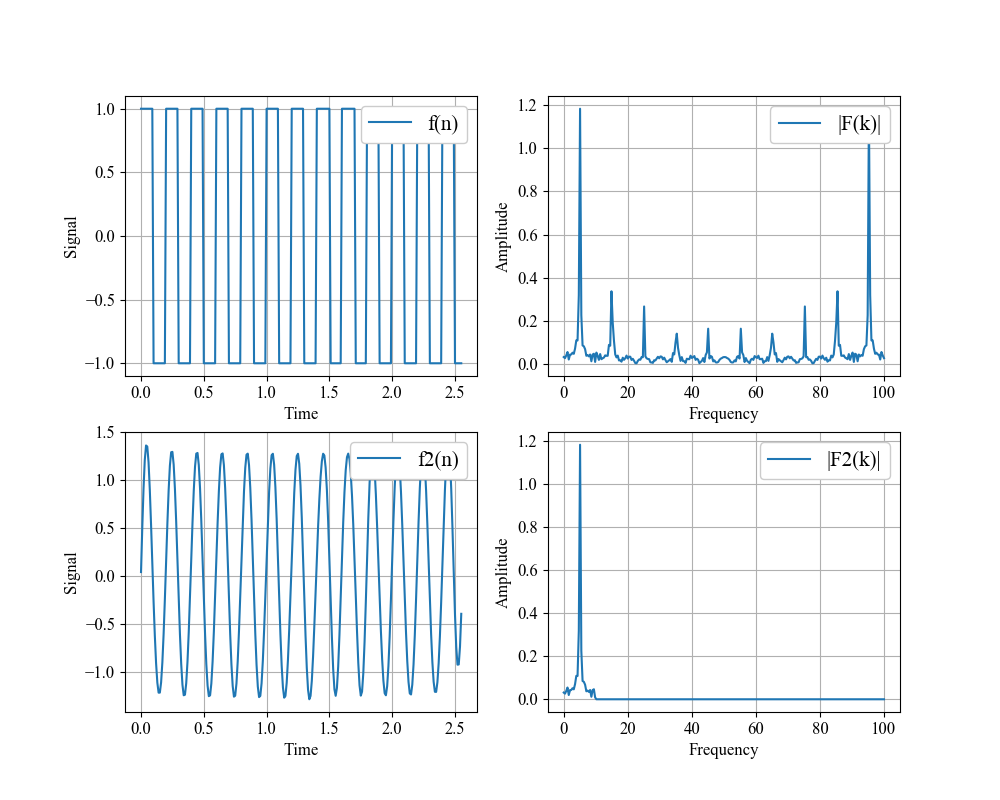
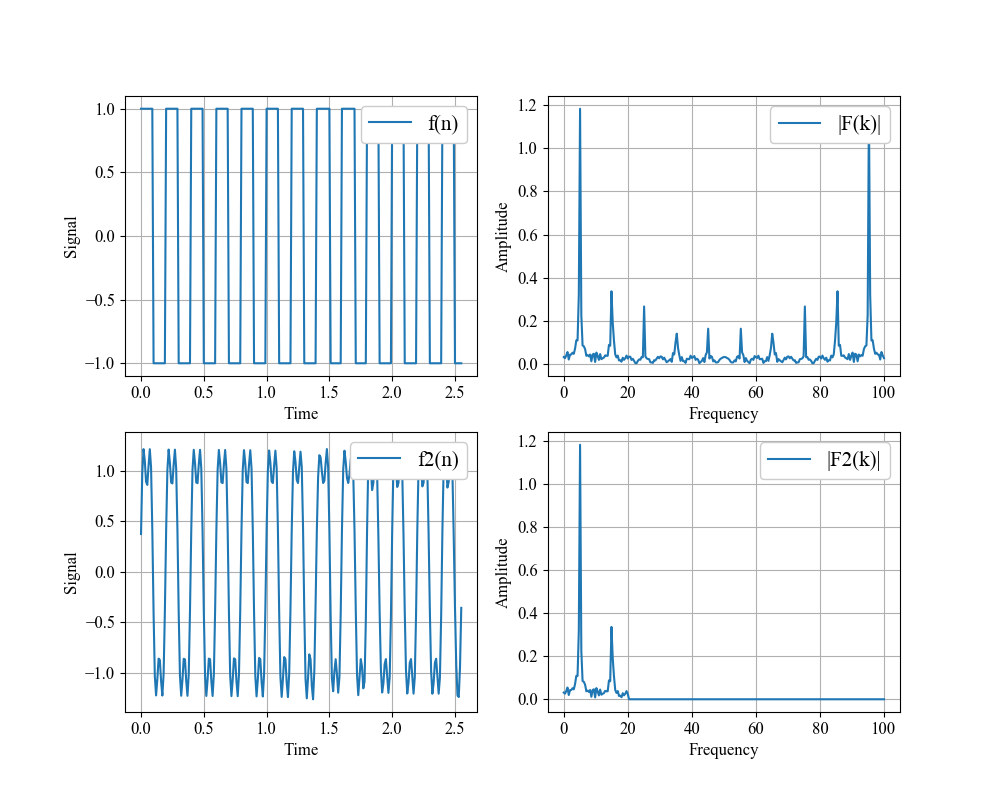
no message

Changed region(s): [[0.093, 0.5625, 0.465, 0.875], [0.589, 0.7812, 0.62, 0.875]]

diff --git a/python/numpy/fft/lpf/ex4.py b/python/numpy/fft/lpf/ex4.py
@@ -1,18 +1,21 @@
 # -*- coding: utf-8 -*-
 import numpy as np
 import matplotlib.pyplot as plt
-from scipy import signal
 
 # データのパラメータ
 N = 256            # サンプル数
 dt = 0.01          # サンプリング間隔
-fq1 = 5
+fq1, fq2 = 5, 40    # 周波数
 fc = 20            # カットオフ周波数
 t = np.arange(0, N*dt, dt)  # 時間軸
 freq = np.linspace(0, 1.0/dt, N)  # 周波数軸
 
-#t = np.linspace(0, 1, N, endpoint=False)
-f = signal.square(2 * np.pi * fq1 * t)
+# 時間信号（周波数5の正弦波 + 周波数40の正弦波）の生成
+f = np.sin(2*np.pi*fq1*t) + 0.2 * np.sin(2*np.pi*fq2*t)
+
+# 時間信号の大部分を0にして非周期信号化
+f[0:75] = 0
+f[100::] = 0
 
 # 高速フーリエ変換（周波数信号に変換）
 F = np.fft.fft(f)
@@ -73,4 +76,4 @@ plt.ylabel('Amplitude', fontsize=12)
 plt.grid()
 leg = plt.legend(loc=1, fontsize=15)
 leg.get_frame().set_alpha(1)
-plt.savefig('C:/github/sample/python/numpy/fft/lpf/ex2.png')
+plt.savefig('C:/github/sample/python/numpy/fft/lpf/ex4.png')
